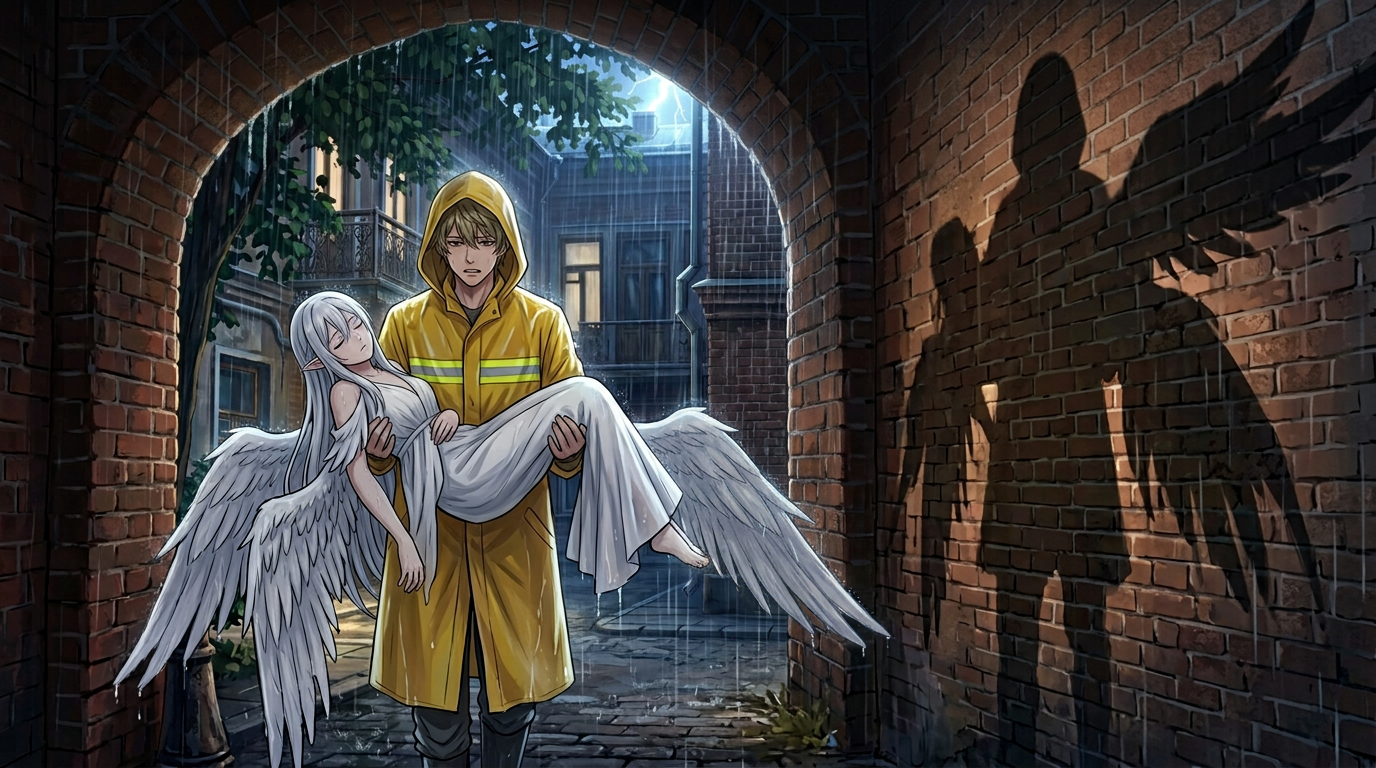
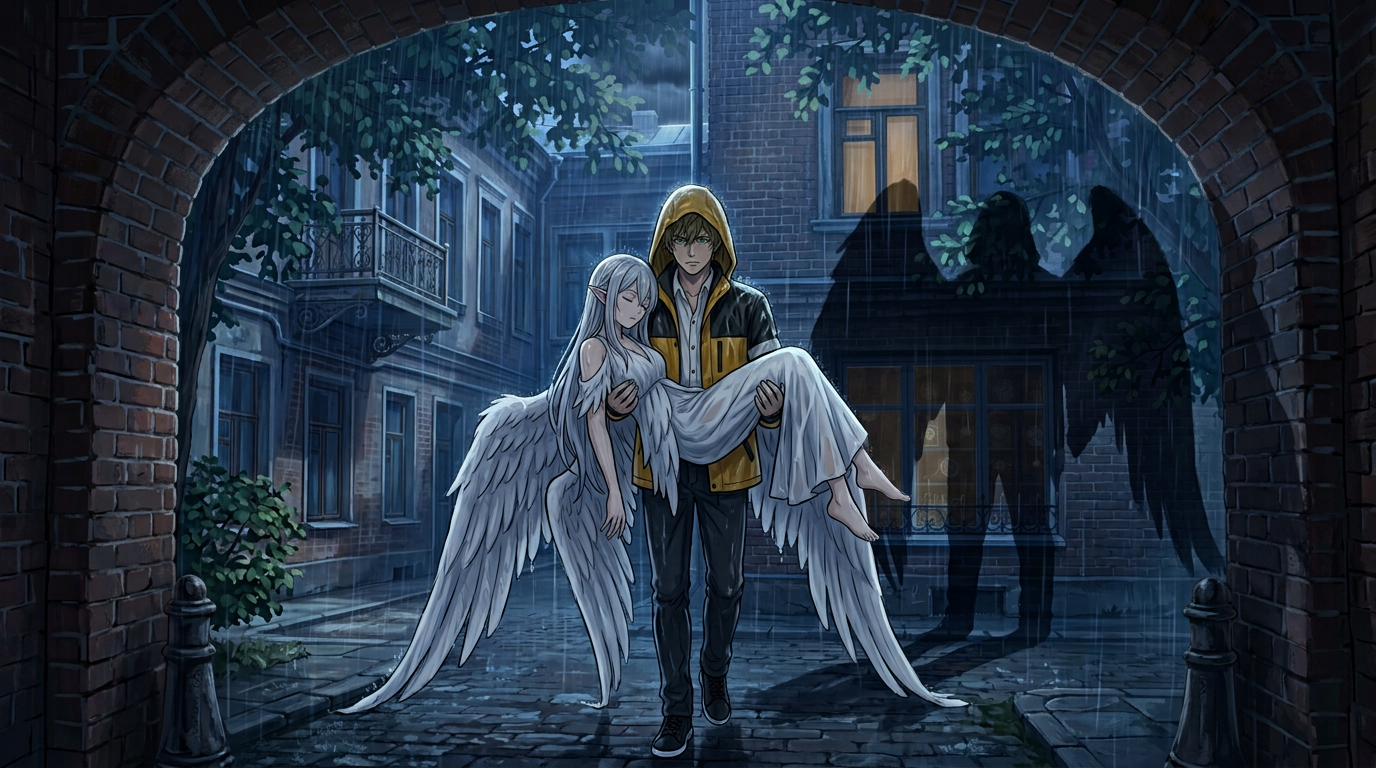
_29: перерисованы CG с Мираэль — зебра, арка, первый кофе, река

diff --git a/index.html b/index.html
@@ -260,37 +260,37 @@
   </div>
 
   <!-- SCRIPT CHAPTERS -->
-  <script src="vn-config.js?v=20261102_28"></script>
-  <script src="vn-core.js?v=20261102_28"></script>
-  <script src="script/_registry.js?v=20261102_28"></script>
-  <script src="script/prologue_1_morning.js?v=20261102_28"></script>
-  <script src="script/prologue_2_city.js?v=20261102_28"></script>
-  <script src="script/prologue_3_barbershop.js?v=20261102_28"></script>
-  <script src="script/prologue_4_depot.js?v=20261102_28"></script>
-  <script src="script/prologue_5_crash.js?v=20261102_28"></script>
-  <script src="script/day1_1_mirael.js?v=20261102_28"></script>
-  <script src="script/day1_2_kitchen.js?v=20261102_28"></script>
-  <script src="script/day1_3_valeria.js?v=20261102_28"></script>
-  <script src="script/day1_4_bridge.js?v=20261102_28"></script>
-  <script src="script/day1_5_taya.js?v=20261102_28"></script>
-  <script src="script/day2_1_quit.js?v=20261102_28"></script>
-  <script src="script/day2_2_shift.js?v=20261102_28"></script>
-  <script src="script/day2_3_zero.js?v=20261102_28"></script>
-  <script src="script/day2_4_walk.js?v=20261102_28"></script>
-  <script src="script/day3_1_office.js?v=20261102_28"></script>
-  <script src="script/day3_2_nika.js?v=20261102_28"></script>
-  <script src="script/day3_3_home.js?v=20261102_28"></script>
-  <script src="script/day4_1_free.js?v=20261102_28"></script>
-  <script src="script/day4_2_barbershop.js?v=20261102_28"></script>
-  <script src="script/day4_3_home.js?v=20261102_28"></script>
-  <script src="script/day5_1_artyom.js?v=20261102_28"></script>
-  <script src="script/day5_2_elevator.js?v=20261102_28"></script>
-  <script src="script/day5_3_night.js?v=20261102_28"></script>
-  <script src="script/day6_1_morning.js?v=20261102_28"></script>
-  <script src="script/day6_2_squeeze.js?v=20261102_28"></script>
-  <script src="script/day6_3_taya.js?v=20261102_28"></script>
-  <script src="script/day7_1_voices.js?v=20261102_28"></script>
-  <script src="script/day7_2_stairs.js?v=20261102_28"></script>
-  <script src="engine.js?v=20261102_28"></script>
+  <script src="vn-config.js?v=20261102_29"></script>
+  <script src="vn-core.js?v=20261102_29"></script>
+  <script src="script/_registry.js?v=20261102_29"></script>
+  <script src="script/prologue_1_morning.js?v=20261102_29"></script>
+  <script src="script/prologue_2_city.js?v=20261102_29"></script>
+  <script src="script/prologue_3_barbershop.js?v=20261102_29"></script>
+  <script src="script/prologue_4_depot.js?v=20261102_29"></script>
+  <script src="script/prologue_5_crash.js?v=20261102_29"></script>
+  <script src="script/day1_1_mirael.js?v=20261102_29"></script>
+  <script src="script/day1_2_kitchen.js?v=20261102_29"></script>
+  <script src="script/day1_3_valeria.js?v=20261102_29"></script>
+  <script src="script/day1_4_bridge.js?v=20261102_29"></script>
+  <script src="script/day1_5_taya.js?v=20261102_29"></script>
+  <script src="script/day2_1_quit.js?v=20261102_29"></script>
+  <script src="script/day2_2_shift.js?v=20261102_29"></script>
+  <script src="script/day2_3_zero.js?v=20261102_29"></script>
+  <script src="script/day2_4_walk.js?v=20261102_29"></script>
+  <script src="script/day3_1_office.js?v=20261102_29"></script>
+  <script src="script/day3_2_nika.js?v=20261102_29"></script>
+  <script src="script/day3_3_home.js?v=20261102_29"></script>
+  <script src="script/day4_1_free.js?v=20261102_29"></script>
+  <script src="script/day4_2_barbershop.js?v=20261102_29"></script>
+  <script src="script/day4_3_home.js?v=20261102_29"></script>
+  <script src="script/day5_1_artyom.js?v=20261102_29"></script>
+  <script src="script/day5_2_elevator.js?v=20261102_29"></script>
+  <script src="script/day5_3_night.js?v=20261102_29"></script>
+  <script src="script/day6_1_morning.js?v=20261102_29"></script>
+  <script src="script/day6_2_squeeze.js?v=20261102_29"></script>
+  <script src="script/day6_3_taya.js?v=20261102_29"></script>
+  <script src="script/day7_1_voices.js?v=20261102_29"></script>
+  <script src="script/day7_2_stairs.js?v=20261102_29"></script>
+  <script src="engine.js?v=20261102_29"></script>
 </body>
 </html>

diff --git a/engine.js b/engine.js
@@ -1,6 +1,6 @@
 // ДВИЖОК ВИЗУАЛЬНОЙ НОВЕЛЛЫ «НЕ СМОТРИ НА НЕБО» ($WAG ENTERTAINMENT)
 (function () {
-  const ASSET_VER = "20261102_28";
+  const ASSET_VER = "20261102_29";
 
   function withVer(url) {
     if (!url) return "";

diff --git a/docs/production/assets.md b/docs/production/assets.md
@@ -105,18 +105,18 @@
 | `cg_sasha_mirror.png` | Саша у умывальника | p1 |
 | `cg_kvass_steps.png` | Квас и Фейнман на ступенях под мостом, рядом жёлтый термокороб (без логотипа) | p2 |
 | `cg_awning_thermos.png` | Лена наливает кофе из открытого термоса под навесом перед грозой; у Саши в руке прозрачный бумажный стакан с манжетой (02.11, маска-композит на оригинал) | p4 |
-| `cg_mirael_zebra.png` | Мираэль лежит на зебре в луже, крылья раскинуты по асфальту, перья на воде; синий велосипед с восьмёркой у бордюра (машины нет; перерисован 02.11) | p5 |
-| `cg_arch_carry.png` | Саша в жёлтом дождевике несёт Мираэль через арку, тень на стене | p5 |
+| `cg_mirael_zebra.png` | Мираэль лежит на зебре в луже, две пары крыльев (нижние распластаны по асфальту), перья на воде; синий велосипед у бордюра, переднее колесо восьмёркой (машины нет; перерисован 02.11, колесо — маска-композит) | p5 |
+| `cg_arch_carry.png` | Саша в жёлтой куртке-дождевике с капюшоном несёт Мираэль через арку, две пары мокрых крыльев свисают с рук, одна тень на стене двора; вспышка за кадром (перерисован 02.11) | p5 |
 | `cg_feather_watch.png` | Одно перо на колене, дедовские часы, сухая комната (дождь за кадром убран 02.11) | p5 |
 
 ### CG дня 1 и дня 2 (02.11)
 
 | Файл | Сцена | Где |
 |---|---|---|
-| `cg_first_coffee.png` | Мираэль (ангел, крылья сложены) за кухонным столом с кружкой, турка на плите | day1_2_kitchen, первый кофе |
+| `cg_first_coffee.png` | Мираэль-ангел на табуретке у стола, нижние крылья поджаты, верхние упираются в шкафчик; дует на кофе в кружке; турка на плите, кружка с котом, молоко, сахарница (перерисован 02.11) | day1_2_kitchen, первый кофе |
 | `cg_dress_fitting.png` | Мираэль (человек) в белом Дашином платье с синей лентой в комнате Саши, шкаф открыт | day1_2_kitchen, примерка |
 | `cg_valeria_nika_door.png` | Вид из прихожей: Валерия (человек) на пороге, Ника на перилах | day1_3_valeria, звонок в дверь |
-| `cg_river_walk.png` | Мира в платье опустила ноги в реку, Саша с забинтованными ладонями ступенькой выше, закат | day2_4_walk, набережная |
+| `cg_river_walk.png` | Мира на нижней ступени спуска к реке, ноги в воде, сандалии рядом; Саша с забинтованными ладонями ступенькой выше; закат (перерисован 02.11) | day2_4_walk, набережная |
 
 Правило: на CG-узле всегда `sprite: "clear"`; спрайты возвращаются вместе с обычным фоном.
 
